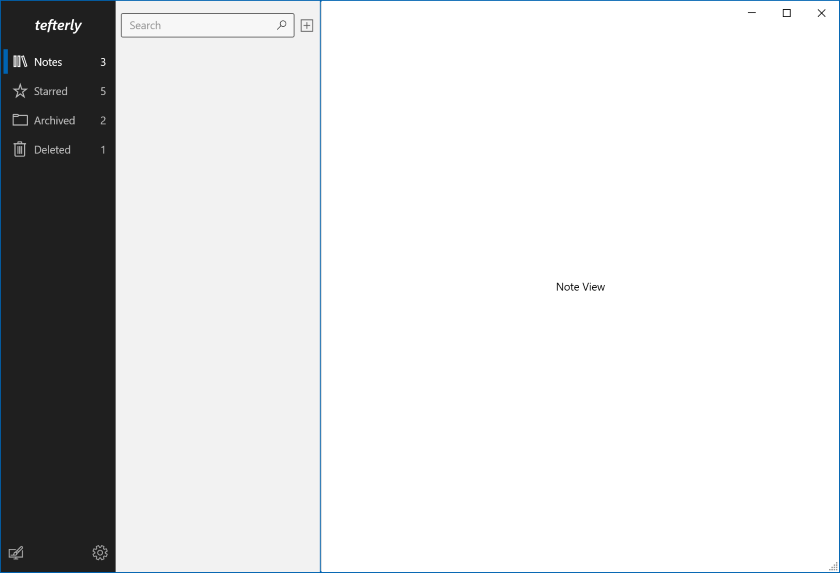
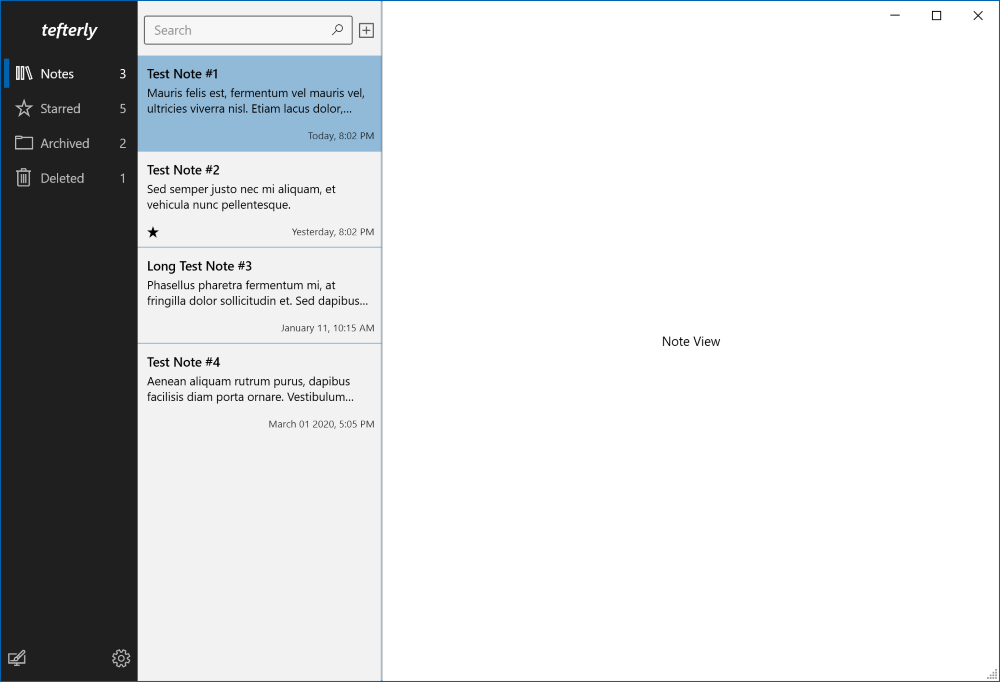
Notes list UI mock complete

diff --git a/Modules/Tefterly.Modules.Notes/Views/NotesList.xaml b/Modules/Tefterly.Modules.Notes/Views/NotesList.xaml
@@ -3,12 +3,47 @@
              xmlns:x="http://schemas.microsoft.com/winfx/2006/xaml"
              xmlns:prism="http://prismlibrary.com/"
              xmlns:ui="http://schemas.modernwpf.com/2019"             
+             xmlns:converters="clr-namespace:Tefterly.Core.Converters;assembly=Tefterly.Core"
              prism:ViewModelLocator.AutoWireViewModel="True">
 
     <UserControl.Resources>
         <ResourceDictionary>
+            <converters:BooleanToVisibilityConverter x:Key="BooleanToVisibilityConverter" />
+            <converters:DateTimeToFormattedStringConverter x:Key="DateTimeToFormattedStringConverter" />
+
+            <DataTemplate x:Key="NoteListboxDataTemplate">
+                <Grid>
+                    <Grid.ColumnDefinitions>
+                        <ColumnDefinition Width="50"/>
+                        <ColumnDefinition Width="*"/>
+                    </Grid.ColumnDefinitions>
+                    <Grid.RowDefinitions>
+                        <RowDefinition Height="18"/>
+                        <RowDefinition Height="50"/>
+                        <RowDefinition Height="16"/>
+                    </Grid.RowDefinitions>
+                    <TextBlock Text="{Binding Path=Title, Mode=TwoWay}" 
+                               Grid.Column="0" Grid.Row="0" Grid.ColumnSpan="2" FontWeight="SemiBold"
+                               TextTrimming="CharacterEllipsis"/>
+                    <TextBlock Text="{Binding Path=Content, Mode=TwoWay}" FontSize="13" Margin="0,3,0,0"
+                               Grid.Column="0" Grid.Row="1" Grid.ColumnSpan="2" TextWrapping="Wrap" TextTrimming="WordEllipsis"/>
+                    <StackPanel Orientation="Horizontal" VerticalAlignment="Bottom"
+                                HorizontalAlignment="Left" Grid.Column="0" Grid.Row="2">
+                        <ContentControl Visibility="{Binding Path=IsStarred, Converter={StaticResource BooleanToVisibilityConverter}, Mode=OneWay}"
+                                        IsHitTestVisible="False" Margin="0,0,9,0">
+                            <ui:FontIcon Glyph="&#xE735;" FontSize="13"/>
+                        </ContentControl>
+                        <Rectangle Width="11" Height="11" Margin="0,1,0,0"
+                                   Fill="Transparent"
+                                   IsHitTestVisible="False"/>
+                    </StackPanel>
+                    <TextBlock Text="{Binding Path=UpdatedDateTime, Converter={StaticResource DateTimeToFormattedStringConverter}, Mode=TwoWay}"
+                               Grid.Column="1" Grid.Row="2" FontSize="11" HorizontalAlignment="Right" VerticalAlignment="Bottom" Foreground="{DynamicResource SystemControlDisabledBaseHighBrush}" Opacity="0.8"/>
+                </Grid>
+            </DataTemplate>
             <ResourceDictionary.MergedDictionaries>
                 <ResourceDictionary Source="/Tefterly.Core;component/Resources/Styles/ChromelessButton.xaml" />
+                <ResourceDictionary Source="/Tefterly.Modules.Notes;component/Styles/NotesListbox.xaml" />
             </ResourceDictionary.MergedDictionaries>
         </ResourceDictionary>
     </UserControl.Resources>
@@ -16,11 +51,10 @@
     <Grid>
         <Grid.RowDefinitions>
             <RowDefinition Height="16"/>
-            <RowDefinition Height="37"/>
-            <RowDefinition Height="1"/>
+            <RowDefinition Height="44"/>
             <RowDefinition Height="*"/>
         </Grid.RowDefinitions>
-        
+
         <!-- Content Panels -->
         <Rectangle Fill="{DynamicResource NavigationViewDefaultPaneBackground}" IsHitTestVisible="False" Grid.Row="0" Grid.RowSpan="4"/>
 
@@ -30,10 +64,31 @@
                 <ColumnDefinition Width="*"/>
                 <ColumnDefinition Width="32"/>
             </Grid.ColumnDefinitions>
-            <ui:AutoSuggestBox Grid.Column="0" PlaceholderText="Search" QueryIcon="Find" Margin="7,0,3,0" />
-            <Button Grid.Column="1" ToolTip="Add a note" Padding="0,1,5,7" Style="{DynamicResource ChromelessButton}">
+            <ui:AutoSuggestBox Grid.Column="0" PlaceholderText="Search" QueryIcon="Find" Margin="7,0,1,0" />
+            <Button Grid.Column="1" ToolTip="Add a note" Margin="0,0,3,12" Style="{DynamicResource ChromelessButton}">
                 <ui:FontIcon Glyph="&#xF164;" />
             </Button>
         </Grid>
+
+        <!-- Notes list -->
+        <ScrollViewer HorizontalScrollBarVisibility="Disabled" VerticalScrollBarVisibility="Auto" Grid.Row="3">
+            <ListBox
+                    ItemsSource="{Binding Path=NotesList}"                
+                    ItemContainerStyle="{StaticResource NoteListboxStyle}"
+                    ItemTemplate="{StaticResource NoteListboxDataTemplate}"
+                    SelectedItem="{Binding SelectedNote}" 
+                    SelectedIndex="1"
+                    Background="Transparent"
+                    BorderThickness="0"
+                    Margin="0"
+                    ScrollViewer.VerticalScrollBarVisibility="Auto" 
+                    ScrollViewer.HorizontalScrollBarVisibility="Disabled" 
+                    VirtualizingStackPanel.IsVirtualizing="True"
+                    VirtualizingPanel.IsVirtualizingWhenGrouping="True"
+                    VirtualizingStackPanel.VirtualizationMode="Recycling">
+            </ListBox>
+        </ScrollViewer>
+
     </Grid>
+
 </UserControl>

diff --git a/Modules/Tefterly.Modules.Notes/Styles/NotesListbox.xaml b/Modules/Tefterly.Modules.Notes/Styles/NotesListbox.xaml
@@ -1,0 +1,44 @@
+<ResourceDictionary xmlns="http://schemas.microsoft.com/winfx/2006/xaml/presentation"
+                    xmlns:x="http://schemas.microsoft.com/winfx/2006/xaml">
+
+    <Style x:Key="NoteListboxStyle" TargetType="{x:Type ListBoxItem}">
+        <Setter Property="Padding" Value="0" />
+        <Setter Property="FocusVisualStyle" Value="{x:Null}" />
+        <Setter Property="Template">
+            <Setter.Value>
+                <ControlTemplate TargetType="{x:Type ListBoxItem}">
+                    <StackPanel>
+                        <!-- separator between the notes -->
+                        <Rectangle Fill="{DynamicResource SystemControlHighlightAltListAccentLowBrush}" Height="1">
+                            <Rectangle.Style>
+                                <Style TargetType="Rectangle">
+                                    <Style.Triggers>
+                                        <DataTrigger Binding="{Binding RelativeSource={RelativeSource PreviousData}}" Value="{x:Null}">
+                                            <Setter Property="Visibility" Value="Collapsed"/>
+                                        </DataTrigger>
+                                    </Style.Triggers>
+                                </Style>
+                            </Rectangle.Style>
+                        </Rectangle>
+                        <Border Name="NoteItemBorder" Padding="10" SnapsToDevicePixels="true">
+                            <ContentPresenter />
+                        </Border>
+                    </StackPanel>
+                    <ControlTemplate.Triggers>
+                        <MultiTrigger>
+                            <MultiTrigger.Conditions>
+                                <Condition Property="IsSelected" Value="false"/>
+                                <Condition Property="IsMouseOver" Value="true"/>
+                            </MultiTrigger.Conditions>
+                            <Setter TargetName="NoteItemBorder" Property="Background" Value="{DynamicResource SystemControlHighlightListLowBrush}"  />
+                        </MultiTrigger>
+                        <Trigger Property="IsSelected" Value="true">
+                            <Setter TargetName="NoteItemBorder" Property="Background" Value="{DynamicResource SystemControlHighlightAltListAccentLowBrush}"/>
+                        </Trigger>
+                    </ControlTemplate.Triggers>
+                </ControlTemplate>
+            </Setter.Value>
+        </Setter>
+    </Style>
+
+</ResourceDictionary>

diff --git a/Modules/Tefterly.Modules.Notebook/Styles/NotebookListbox.xaml b/Modules/Tefterly.Modules.Notebook/Styles/NotebookListbox.xaml
@@ -10,7 +10,7 @@
         <Setter Property="Template">
             <Setter.Value>
                 <ControlTemplate TargetType="{x:Type ListBoxItem}">
-                    <StackPanel>
+                    <StackPanel Background="Transparent">
                         <Border Name="NotebookItemBorder" Padding="2" SnapsToDevicePixels="true">
                             <Grid Margin="{TemplateBinding BorderThickness}">
                                 <Grid HorizontalAlignment="Left" VerticalAlignment="Center">
@@ -18,7 +18,8 @@
                                            Width="{StaticResource NotebookSelectionIndicatorWidth}"
                                            Height="{StaticResource NotebookSelectionIndicatorHeight}"
                                            Fill="{DynamicResource SystemControlBackgroundAccentBrush}"
-                                           Focusable="False" Opacity="0.0" />
+                                           Focusable="False"
+                                           Opacity="0.0" />
                                 </Grid>
                                 <ContentPresenter />
                             </Grid>
@@ -33,13 +34,10 @@
                             <Setter Property="Foreground" Value="{DynamicResource SystemControlBackgroundChromeWhiteBrush}"/>
                             <Setter Property="Opacity" Value="0.7"/>
                         </MultiTrigger>
-                        <MultiTrigger>
-                            <MultiTrigger.Conditions>
-                                <Condition Property="IsMouseOver" Value="true"/>
-                            </MultiTrigger.Conditions>
+                        <Trigger Property="IsMouseOver" Value="true">
                             <Setter TargetName="NotebookItemBorder" Property="Background" Value="{DynamicResource SystemControlHighlightListLowBrush}"/>
                             <Setter Property="Foreground" Value="{DynamicResource SystemControlBackgroundChromeWhiteBrush}"/>
-                        </MultiTrigger>
+                        </Trigger>
                         <Trigger Property="IsSelected" Value="true">
                             <Setter TargetName="SelectionIndicator" Property="Opacity" Value="1.0" />
                             <Setter Property="Foreground" Value="{DynamicResource SystemControlBackgroundChromeWhiteBrush}"/>

diff --git a/Modules/Tefterly.Modules.Notebook/Views/NotebookList.xaml b/Modules/Tefterly.Modules.Notebook/Views/NotebookList.xaml
@@ -9,8 +9,7 @@
     <UserControl.Resources>
         <ResourceDictionary>
             <DataTemplate x:Key="NotebookListboxDataTemplate">
-                <!-- Background="Transparent" makes the grid hit testable so mouse-over event works fine -->
-                <DockPanel Background="Transparent" Cursor="Hand">
+                <DockPanel>
                     <ui:FontIcon Glyph="{Binding Path=IconFont}" VerticalAlignment="Center" Margin="12,0,0,0" />
                     <TextBlock Text="{Binding Path=Title}" VerticalAlignment="Center" Margin="8,0,0,0" />
                     <Grid HorizontalAlignment="Right" VerticalAlignment="Center">
@@ -61,7 +60,7 @@
                 Grid.Row="2"
                 VerticalAlignment="Center"
                 HorizontalAlignment="Left"
-                Margin="5,0,0,0"
+                Margin="7,0,0,0"
                 Style="{DynamicResource ChromelessButton}"         
                 ToolTip="Toggle Theme">
             <ui:FontIcon Glyph="&#xE771;" Margin="0,-2,0,0" />
@@ -69,7 +68,7 @@
         <Button Grid.Row="2"
                 VerticalAlignment="Center"
                 HorizontalAlignment="Right"
-                Margin="0,0,5,0"
+                Margin="0,0,7,0"
                 Style="{DynamicResource ChromelessButton}"         
                 ToolTip="Settings">
             <ui:SymbolIcon Symbol="Setting"/>

diff --git a/Tefterly.Core/Resources/Styles/ChromelessButton.xaml b/Tefterly.Core/Resources/Styles/ChromelessButton.xaml
@@ -6,7 +6,6 @@
         <Setter Property="Foreground" Value="{DynamicResource SystemControlForegroundBaseHighBrush}" />
         <Setter Property="HorizontalContentAlignment" Value="Center" />
         <Setter Property="VerticalContentAlignment" Value="Center" />
-        <Setter Property="Padding" Value="5" />
         <Setter Property="Template">
             <Setter.Value>
                 <ControlTemplate TargetType="{x:Type ButtonBase}">
@@ -28,10 +27,9 @@
                         </Trigger>
                         <Trigger Property="IsMouseOver" Value="True">
                             <Setter TargetName="PART_ContentPresenter" Property="Opacity" Value="1" />
-                            <Setter Property="Cursor" Value="Hand" />
                         </Trigger>
                         <Trigger Property="IsMouseOver" Value="False">
-                            <Setter TargetName="PART_ContentPresenter" Property="Opacity" Value="0.6" />
+                            <Setter TargetName="PART_ContentPresenter" Property="Opacity" Value="0.7" />
                         </Trigger>
                         <Trigger Property="IsEnabled" Value="False">
                             <Setter Property="Foreground" Value="{DynamicResource SystemControlDisabledBaseHighBrush}" />

diff --git a/Tefterly/Views/MainWindow.xaml b/Tefterly/Views/MainWindow.xaml
@@ -11,6 +11,8 @@
         Title="{Binding Title}"
         Width="1100"
         Height="750"
+        MinWidth="900"
+        MinHeight="500"
         BorderBrush="{DynamicResource SystemControlForegroundAccentBrush}"
         WindowStartupLocation="CenterScreen"
         ResizeMode="CanResizeWithGrip">
@@ -28,7 +30,7 @@
         <Grid x:Name="gridNotes" Grid.Column="1">
             <ContentControl prism:RegionManager.RegionName="{x:Static core:RegionNames.NotesRegion}"/>
         </Grid>
-        <GridSplitter BorderThickness="1,1,0,1" BorderBrush="{DynamicResource SystemControlForegroundAccentBrush}" Grid.Column="1" Width="2" HorizontalAlignment="Right" VerticalAlignment="Stretch"/>
+        <GridSplitter BorderThickness="1,1,0,1" BorderBrush="{DynamicResource SystemControlHighlightAltListAccentLowBrush}" Grid.Column="1" Width="2" HorizontalAlignment="Right" VerticalAlignment="Stretch"/>
         <Grid x:Name="gridNote" Grid.Column="2">
             <ContentControl prism:RegionManager.RegionName="{x:Static core:RegionNames.NoteRegion}"/>
         </Grid>

diff --git a/Modules/Tefterly.Modules.Notes/ViewModels/NotesListViewModel.cs b/Modules/Tefterly.Modules.Notes/ViewModels/NotesListViewModel.cs
@@ -1,19 +1,61 @@
 using Prism.Mvvm;
+using System;
+using System.Collections.ObjectModel;
 
 namespace Tefterly.Modules.Notes.ViewModels
 {
     public class NotesListViewModel : BindableBase
     {
-        private string _message;
-        public string Message
+        private ObservableCollection<Core.Models.Note> _notesList;
+        public ObservableCollection<Core.Models.Note> NotesList
         {
-            get { return _message; }
-            set { SetProperty(ref _message, value); }
+            get { return _notesList; }
+            set { SetProperty(ref _notesList, value); }
         }
 
         public NotesListViewModel()
         {
-            Message = "NotesList View";
+            NotesList = new ObservableCollection<Core.Models.Note>();
+            _notesList.Add(new Core.Models.Note()
+            {
+                Id = Guid.NewGuid(),
+                Title = "Test Note #1",
+                UpdatedDateTime = DateTime.Now,
+                Content = "Mauris felis est, fermentum vel mauris vel, ultricies viverra nisl. Etiam lacus dolor, consequat in venenatis quis, gravida porta est",
+                IsStarred = false,
+                IsArchived = false,
+                IsDeleted = false
+            });
+            _notesList.Add(new Core.Models.Note()
+            {
+                Id = Guid.NewGuid(),
+                Title = "Test Note #2",
+                UpdatedDateTime = DateTime.Now.AddDays(-1),
+                Content = "Sed semper justo nec mi aliquam, et vehicula nunc pellentesque.",
+                IsStarred = true,
+                IsArchived = false,
+                IsDeleted = false
+            });
+            _notesList.Add(new Core.Models.Note()
+            {
+                Id = Guid.NewGuid(),
+                Title = "Long Test Note #3",
+                UpdatedDateTime = DateTime.Parse("01/11/2021 10:15:43"),
+                Content = "Phasellus pharetra fermentum mi, at fringilla dolor sollicitudin et. Sed dapibus ex ac ligula semper, sit amet dignissim sem vulputate.",
+                IsStarred = false,
+                IsArchived = false,
+                IsDeleted = false
+            });
+            _notesList.Add(new Core.Models.Note()
+            {
+                Id = Guid.NewGuid(),
+                Title = "Test Note #4",
+                UpdatedDateTime = DateTime.Parse("03/01/2020 17:05:43"),
+                Content = "Aenean aliquam rutrum purus, dapibus facilisis diam porta ornare. Vestibulum egestas augue nec nulla congue, non ultrices enim consequat.",
+                IsStarred = false,
+                IsArchived = false,
+                IsDeleted = false
+            });
         }
     }
 }

diff --git a/Tefterly.Core/Converters/DateTimeToFormattedStringConverter.cs b/Tefterly.Core/Converters/DateTimeToFormattedStringConverter.cs
@@ -1,0 +1,29 @@
+using System;
+using System.Globalization;
+using System.Windows.Data;
+
+namespace Tefterly.Core.Converters
+{
+    public class DateTimeToFormattedStringConverter : IValueConverter
+    {
+        public object Convert(object value, Type targetType, object parameter, CultureInfo culture)
+        {
+            DateTime dateTime = (DateTime)value;
+            DateTime dateTimeNow = DateTime.Now;
+
+            if (dateTime.Date == dateTimeNow.Date)
+                return dateTime.ToString("\"Today\", h:mm tt");
+            else if (dateTime.Date == dateTimeNow.Date.AddDays(-1))
+                return dateTime.ToString("\"Yesterday\", h:mm tt");
+            else if (dateTime.Year == dateTimeNow.Year)
+                return dateTime.ToString("MMMM dd, h:mm tt");
+            else
+                return dateTime.ToString("MMMM dd yyyy, h:mm tt");
+        }
+
+        public object ConvertBack(object value, Type targetType, object parameter, CultureInfo culture)
+        {
+            throw new NotImplementedException();
+        }
+    }
+}

diff --git a/Tefterly.Core/Models/Note.cs b/Tefterly.Core/Models/Note.cs
@@ -1,0 +1,22 @@
+using System;
+
+namespace Tefterly.Core.Models
+{
+    public class Note
+    {
+        public Guid Id { get; set; }
+        public DateTime CreatedDateTime { get; set; }
+        public DateTime UpdatedDateTime { get; set; }
+
+        // note attributes
+        public string Title { get; set; }
+        public string Content { get; set; }
+        public string Color { get; set; }
+        public int Tag { get; set; }
+
+        // note state
+        public bool IsStarred { get; set; }
+        public bool IsArchived { get; set; }
+        public bool IsDeleted { get; set; }
+    }
+}

diff --git a/Tefterly.Core/Converters/BooleanToVisibilityConverter.cs b/Tefterly.Core/Converters/BooleanToVisibilityConverter.cs
@@ -1,0 +1,20 @@
+using System;
+using System.Globalization;
+using System.Windows;
+using System.Windows.Data;
+
+namespace Tefterly.Core.Converters
+{
+    public class BooleanToVisibilityConverter : IValueConverter
+    {
+        public object Convert(object value, Type targetType, object parameter, CultureInfo culture)
+        {
+            return (bool)value ? Visibility.Visible : Visibility.Collapsed;
+        }
+
+        public object ConvertBack(object value, Type targetType, object parameter, CultureInfo culture)
+        {
+            throw new NotImplementedException();
+        }
+    }
+}

diff --git a/README.md b/README.md
@@ -5,6 +5,7 @@ References:
 Project updates:
 - 03/12/2021 - Main project created, UI mock in progress
 - 03/15/2021 - Navigation bar UI mock complete
+- 03/21/2021 - Notes list UI mock complete 
 
 Screenshot:
 <img src="Screenshot.png" alt="Screenshot" width="900"/>
